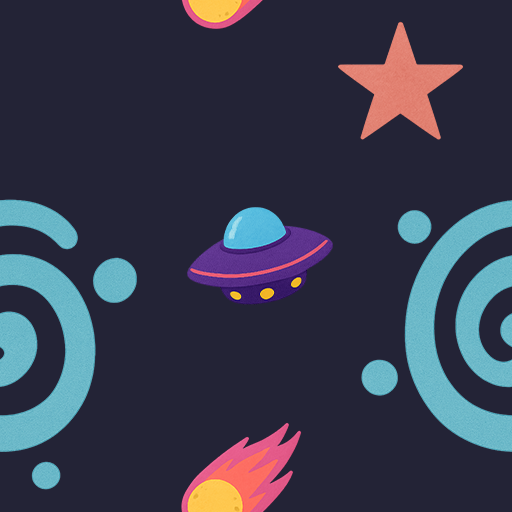
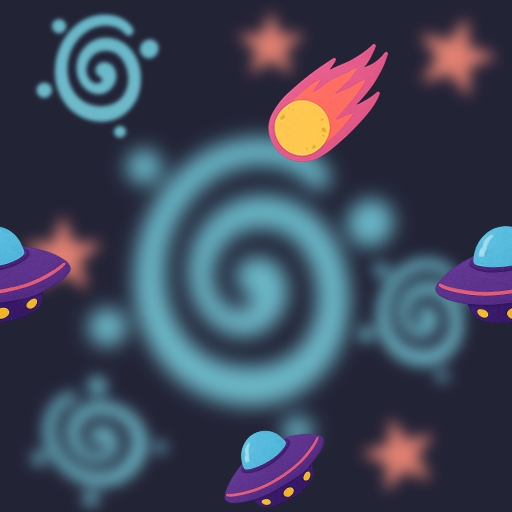
background image

diff --git a/src/index.css b/src/index.css
@@ -1,10 +1,22 @@
 @import url('https://fonts.googleapis.com/css2?family=Orbitron:wght@500&display=swap');
 
+body::before {
+  content: "";
+  position: absolute;
+  top: -1000px;
+  left: -1000px;
+  width: 500%;
+  height: 500%;
+  background-image: url('/background.png');
+  transform: rotate(-7deg);
+  z-index: -1;
+}
+
 body {
   margin: 0;
   min-height: 100vh;
-  background: linear-gradient(135deg, #1b1b2f, #3a3a60);
-  background-image: url('/background.png');
+  /* background: linear-gradient(135deg, rgba(27, 27, 47, 1), rgba(58, 58, 96, 1)); */
+  overflow: hidden;
   display: flex;
   justify-content: center;
   align-items: center;
@@ -47,7 +59,7 @@ button:hover {
   margin: 0 auto;
   padding: 2rem;
   text-align: center;
-  background: rgba(27, 27, 47, 0.8);
+  background: rgba(46, 46, 78, 0.8);
   backdrop-filter: blur(10px);
   border-radius: 24px;
   box-shadow: 0 0 30px rgba(0, 0, 0, 0.5);
@@ -101,7 +113,7 @@ footer {
   position: absolute;
   box-shadow: 0 0 30px rgba(0, 0, 0, 0.5);
   text-align: right;
-  background: rgba(27, 27, 47, 0.8);
+  background: rgba(46, 46, 78, 0.8);
   backdrop-filter: blur(10px);
   bottom: 0;
   left: 0;

diff --git a/src/Components/NameDisplay.tsx b/src/Components/NameDisplay.tsx
@@ -18,7 +18,6 @@ const NameDisplay: React.FC<NameDisplayProps> = ({ name }) => {
     } catch (err) {
       console.error('Failed to copy: ', err);
       alert('Failed to copy the name. Please try again.');
-
       setCopied(false);
     }
   };
